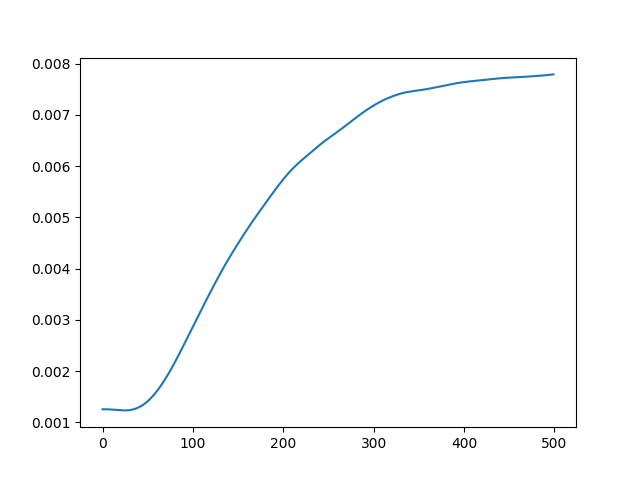
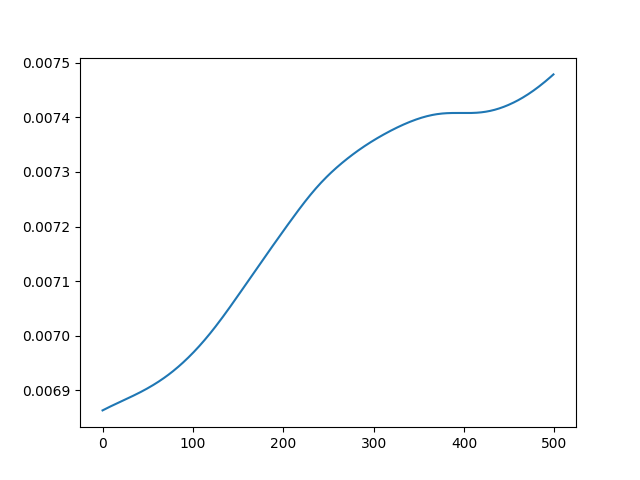
generic commit

diff --git a/scripts/transport/kvae_diffusion.py b/scripts/transport/kvae_diffusion.py
@@ -801,9 +801,9 @@ def run():
 
     #ref_gen = lambda N: normalize(sample_elden_ring(N))
     ref_gen = lambda N: normalize(sample_spirals(N))
-    two_d_exp(ref_gen=sample_normal, target_gen=ref_gen, N=2000, exp_name='exp', n_transports=5,
+    two_d_exp(ref_gen=sample_normal, target_gen=sample_elden_ring, N=5000, exp_name='elden_diff', n_transports=70,
               slice_vals=[0], plt_range=[[-1.5, 1.5], [-1.5, 1.5]], slice_range=[-1.5, 1.5], vmax=.15, skip_idx=1,
-              N_plot=2000, plot_steps = False)
+              N_plot=5000, plot_steps = False)
 
     #vl_exp(N = 5000, n_transports=70, N_plot= 5000)
     #spheres_exp(N = 5000, n_transports=70, N_plot= 5000)
